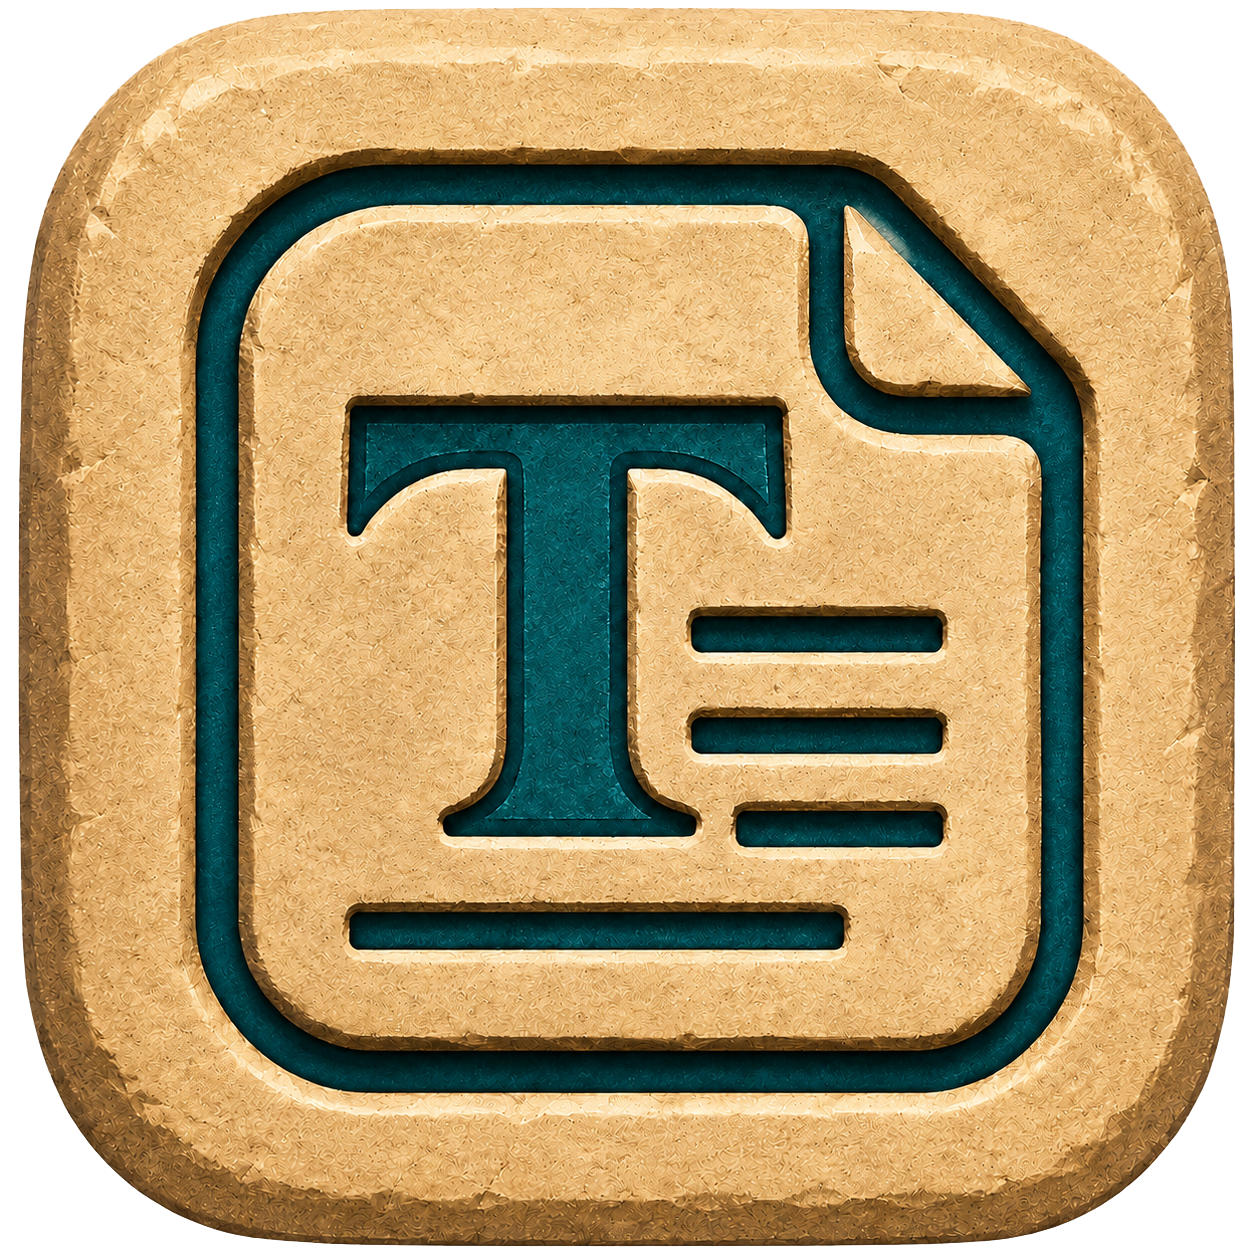
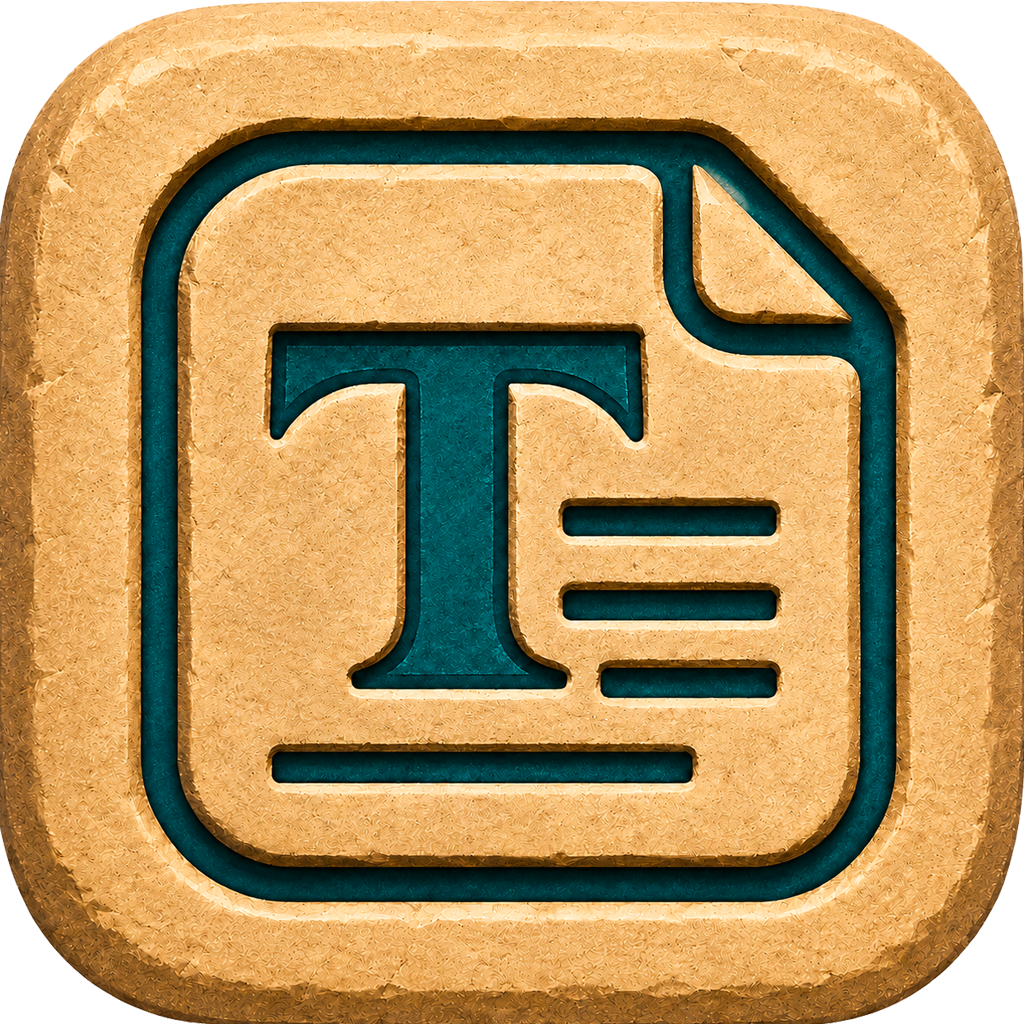
Cache notebook image previews and skip updates
Add an in-memory cache for notebook image previews (keyed by workspace+src) and return object URLs created from asset data to avoid repeatedly reading/converting the same asset. Short-circuit hydration to skip setting node attrs when the image node already has the preview+markdown src, preventing redundant transactions. Also update icon assets: replace tigrana-icon.png and remove tigrana-icon2.png.

diff --git a/src/editor/NotesEditor.tsx b/src/editor/NotesEditor.tsx
@@ -72,6 +72,7 @@ type SlashState = {
 
 const lowlight = createLowlight(common);
 const searchHighlightKey = new PluginKey<SearchHighlightState>("searchHighlight");
+const notebookImagePreviewCache = new Map<string, string>();
 
 type SearchHighlightState = {
   activeIndex: number;
@@ -1444,7 +1445,16 @@ function insertSavedImage(view: EditorView, previewSrc: string, markdownSrc: str
 
 async function previewSrcForNotebookImage(workspace: string, src: string) {
   if (!workspace || !isTauri() || isExternalImageSrc(src) || src.startsWith("data:")) return src;
-  return readAssetDataUrl(workspace, src);
+  const cacheKey = `${workspace}\0${src}`;
+  const cached = notebookImagePreviewCache.get(cacheKey);
+  if (cached) return cached;
+
+  const dataUrl = await readAssetDataUrl(workspace, src);
+  const file = dataUrlToFile(dataUrl);
+  if (!file) return dataUrl;
+  const objectUrl = URL.createObjectURL(file);
+  notebookImagePreviewCache.set(cacheKey, objectUrl);
+  return objectUrl;
 }
 
 async function hydrateNotebookImageNodes(editor: Editor, workspace: string) {
@@ -1473,6 +1483,7 @@ async function hydrateNotebookImageNodes(editor: Editor, workspace: string) {
     if (!item.previewSrc) continue;
     const node = tr.doc.nodeAt(item.pos);
     if (!node || node.type.name !== "image") continue;
+    if (node.attrs.src === item.previewSrc && node.attrs.markdownSrc === item.src) continue;
     tr.setNodeMarkup(item.pos, undefined, { ...item.attrs, src: item.previewSrc, markdownSrc: item.src });
     changed = true;
   }
